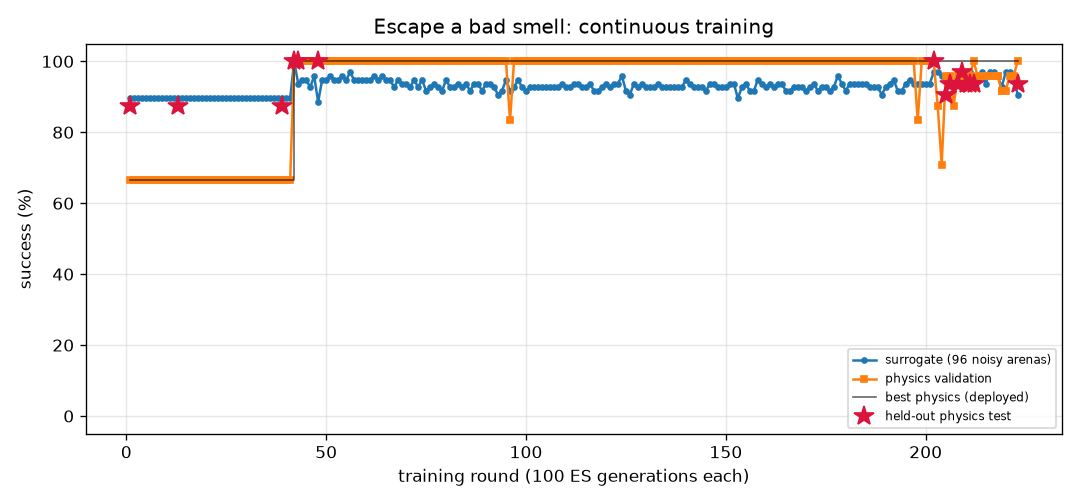
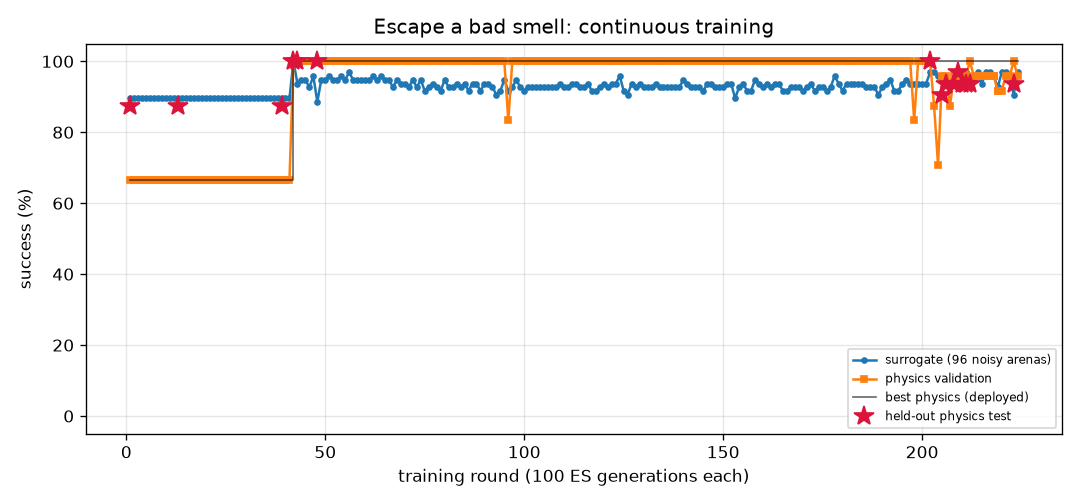
FlyLab: continuous training progress
- walk_forward: optimal, physics val 100% of 24, round 34
- turn: optimal, physics val 100% of 24, round 43
- goto: optimal, physics val 100% of 24, round 36
- odor_seek: optimal, physics val 100% of 24, round 65
- odor_avoid: optimal, physics val 96% of 24, round 224
- light_seek: optimal, physics val 100% of 24, round 205
- light_avoid: optimal, physics val 100% of 24, round 48

diff --git a/projects/09_flylab/training/turn/REPORT.md b/projects/09_flylab/training/turn/REPORT.md
@@ -1,27 +1,22 @@
 # Turn in place (`turn`) — training report
 
-*Auto-generated by `train_brains.py`, last updated 2026-10-03T12:27:35.*
+*Auto-generated by `train_brains.py`, last updated 2026-10-03T13:26:57.*
 
 ![curve](curve.png)
 
 | | |
 |---|---|
-| rounds | 31 |
-| ES generations | 3100 |
-| physics runs | 926 |
+| rounds | 43 |
+| ES generations | 4300 |
+| physics runs | 1246 |
 | status | **optimal** |
-| best brain | round 21: physics validation **100%** on 24 arenas, surrogate 98% |
-| held-out physics test | **91%** on 32 unseen arenas (95% CI 76%-97%) (errors: [2.4, 2.5, 5.3, 4.0, 0.6, 2.1, 0.1, 0.3, 2.0, 2.5, 1.3, 1.7, 1.1, 1.8, 5.4, 1.6, 1.6, 1.0, 1.0, 8.7, 0.7, 1.4, 2.4, 10.2, 2.8, 4.1, 2.2, 4.6, 11.0, 0.6, 8.4, 9.8]) |
+| best brain | round 37: physics validation **100%** on 24 arenas, surrogate 100% |
+| held-out physics test | **100%** on 32 unseen arenas (95% CI 89%-100%) (errors: [0.7, 2.9, 4.2, 1.6, 2.0, 1.9, 0.4, 0.6, 2.5, 2.5, 1.2, 5.1, 0.0, 1.3, 0.9, 2.0, 1.8, 3.9, 0.0, 2.1, 0.4, 1.6, 2.5, 0.7, 2.4, 4.8, 1.8, 6.0, 4.3, 1.3, 7.4, 7.2]) |
 
 Physics error per arena: deg from target heading (< 20 = success).
 
 | round | level | gens | sigma | surrogate | physics val | val errors | test | note |
 |---:|---:|---:|---:|---:|---:|---|---:|---|
-| 1 | 1 | 100 | 0.053 | 98% | 83% | [9.0, 10.3, 9.9, 3.6, 4.8, 1.4] | 75% | new best |
-| 2 | 1 | 200 | 0.025 | 98% | 83% | [5.4, 2.2, 0.0, 1.1, 11.1, 0.2] | 88% | new best |
-| 3 | 1 | 300 | 0.025 | 99% | 100% | [4.3, 7.2, 7.2, 2.0, 2.6, 1.9] | 88% | new best |
-| 4 | 3 | 400 | 0.025 | 100% | 96% | [1.8, 5.8, 1.2, 2.2, 13.3, 4.1, 4.5, 5.7, 4.6, 10.7, 3.3, 0.5, 2.3, 3.1, 2.8, 0.3, 0.9, 0.6, 0.0, 0.3, 2.1, 0.0, 6.2, 1.3] | 91% | new best |
-| 5 | 3 | 500 | 0.024 | 100% | 92% | [5.8, 0.4, 0.3, 1.2, 0.4, 0.8, 8.7, 9.1, 8.4, 2.6, 6.0, 3.5, 1.2, 0.6, 5.4, 2.1, 3.2, 2.5, 2.8, 3.0, 0.2, 2.6, 9.3, 4.2] |  |  |
 | 6 | 3 | 600 | 0.024 | 100% | 92% | [3.7, 12.1, 14.9, 3.2, 0.9, 118.1, 9.6, 0.4, 8.8, 5.4, 5.7, 7.7, 4.1, 3.6, 5.4, 6.0, 7.4, 15.3, 5.8, 6.4, 0.8, 6.7, 9.3, 8.7] |  |  |
 | 7 | 3 | 700 | 0.024 | 100% | 100% | [0.6, 3.2, 4.1, 1.4, 4.5, 3.1, 3.3, 2.1, 5.3, 0.4, 3.7, 0.0, 2.4, 3.2, 4.0, 10.7, 0.2, 1.0, 0.8, 0.7, 3.1, 0.7, 5.9, 4.4] | 84% |  |
 | 8 | 3 | 800 | 0.024 | 98% | 88% | [2.1, 7.3, 3.5, 2.4, 17.0, 5.9, 8.9, 10.9, 6.9, 3.4, 5.8, 3.6, 0.7, 2.9, 6.2, 3.3, 0.8, 4.3, 3.4, 3.6, 1.6, 3.7, 6.2, 9.8] |  |  |
@@ -50,3 +45,15 @@ Physics error per arena: deg from target heading (< 20 = success).
 | 29 | 3 | 2900 | 0.024 | 98% | 83% | [8.6, 3.9, 9.7, 0.0, 0.1, 3.4, 4.7, 7.4, 4.9, 0.4, 5.0, 1.8, 0.2, 3.0, 5.2, 1.2, 0.5, 1.2, 0.3, 0.4, 4.4, 1.6, 4.6, 2.4] |  | restart from best |
 | 30 | 3 | 3000 | 0.025 | 99% | 96% | [8.4, 15.6, 8.0, 3.6, 16.3, 18.6, 9.7, 9.7, 10.4, 3.9, 6.8, 9.3, 5.9, 5.5, 7.1, 16.4, 9.5, 15.4, 15.1, 17.1, 0.7, 7.2, 9.7, 8.8] |  |  |
 | 31 | 3 | 3100 | 0.025 | 99% | 96% | [4.7, 1.8, 3.7, 1.1, 0.7, 4.9, 4.9, 0.3, 4.2, 3.0, 4.5, 2.3, 1.4, 2.2, 4.7, 1.3, 2.5, 0.9, 3.1, 1.1, 2.8, 2.0, 6.5, 3.7] |  |  |
+| 32 | 3 | 3200 | 0.025 | 99% | 83% | [5.2, 5.6, 2.5, 2.7, 5.1, 1.0, 4.1, 0.8, 4.7, 0.5, 0.3, 0.2, 1.8, 3.0, 4.2, 0.1, 0.0, 0.3, 0.7, 0.3, 111.1, 1.1, 4.0, 4.6] |  |  |
+| 33 | 3 | 3300 | 0.025 | 99% | 88% | [9.3, 4.4, 1.5, 1.6, 1.8, 2.6, 7.5, 6.1, 8.3, 15.4, 5.3, 0.8, 0.7, 1.1, 4.9, 2.6, 1.0, 2.9, 2.7, 2.5, 3.3, 2.6, 9.0, 6.4] |  | restart from best |
+| 34 | 3 | 3400 | 0.025 | 99% | 92% | [4.6, 3.6, 6.2, 2.4, 12.3, 0.6, 4.1, 8.3, 5.7, 12.8, 3.8, 1.4, 1.2, 1.6, 4.3, 1.7, 1.7, 2.9, 1.4, 1.1, 4.8, 2.5, 4.5, 6.8] |  |  |
+| 35 | 3 | 3500 | 0.025 | 99% | 92% | [10.1, 16.1, 5.0, 2.2, 0.3, 2.2, 10.8, 11.1, 11.0, 3.7, 6.4, 7.5, 3.0, 3.9, 6.1, 4.2, 7.8, 14.9, 4.5, 5.7, 3.5, 4.6, 9.3, 7.6] |  |  |
+| 36 | 3 | 3600 | 0.025 | 99% | 75% | [2.5, 6.7, 10.0, 2.9, 2.2, 3.2, 9.5, 11.6, 11.9, 3.4, 8.1, 6.4, 2.1, 2.7, 6.5, 5.0, 6.0, 6.8, 4.7, 4.9, 5.0, 1.7, 10.4, 7.5] |  |  |
+| 37 | 3 | 3700 | 0.025 | 100% | 100% | [2.3, 4.4, 1.9, 2.5, 3.0, 2.7, 4.3, 2.8, 5.0, 0.5, 4.5, 1.5, 2.3, 2.6, 4.1, 0.1, 1.2, 0.3, 0.1, 1.8, 2.1, 2.1, 5.1, 0.7] | 100% | new best |
+| 38 | 3 | 3800 | 0.024 | 99% | 92% | [2.7, 0.1, 1.8, 1.6, 11.8, 116.6, 6.5, 7.4, 6.5, 11.4, 0.5, 3.5, 0.0, 0.9, 4.4, 2.2, 3.4, 2.0, 2.3, 2.2, 4.6, 1.9, 5.9, 3.3] |  |  |
+| 39 | 3 | 3900 | 0.025 | 99% | 75% | [7.6, 6.9, 6.6, 1.5, 3.3, 4.4, 4.6, 5.2, 2.4, 1.2, 4.7, 0.0, 2.3, 2.1, 4.7, 0.0, 0.4, 1.7, 0.0, 0.1, 5.8, 2.4, 3.7, 3.0] |  |  |
+| 40 | 3 | 4000 | 0.025 | 99% | 92% | [6.2, 0.2, 7.0, 0.6, 11.5, 1.9, 5.9, 6.8, 5.9, 1.4, 4.2, 1.1, 1.3, 1.0, 4.1, 1.5, 2.1, 2.2, 1.5, 1.2, 2.3, 2.7, 6.6, 7.7] |  |  |
+| 41 | 3 | 4100 | 0.025 | 99% | 79% | [0.4, 4.8, 0.8, 1.6, 10.3, 116.6, 5.5, 1.3, 4.9, 2.4, 4.4, 0.5, 1.6, 0.8, 4.0, 10.2, 0.4, 0.9, 11.5, 0.1, 5.5, 2.5, 5.7, 4.8] |  | restart from best |
+| 42 | 3 | 4200 | 0.024 | 99% | 92% | [1.9, 0.3, 2.3, 2.0, 3.0, 4.4, 6.6, 4.3, 5.4, 11.7, 4.6, 1.7, 0.6, 1.5, 5.3, 2.0, 2.3, 1.7, 1.5, 1.3, 1.7, 1.8, 8.0, 2.0] |  |  |
+| 43 | 3 | 4300 | 0.025 | 99% | 75% | [5.1, 2.7, 1.8, 1.5, 4.1, 0.5, 3.5, 2.9, 4.1, 0.8, 0.1, 0.9, 1.8, 2.2, 4.9, 0.5, 0.6, 1.0, 0.2, 0.4, 104.5, 1.1, 7.0, 0.6] |  |  |

diff --git a/projects/09_flylab/training/light_avoid/REPORT.md b/projects/09_flylab/training/light_avoid/REPORT.md
@@ -1,30 +1,22 @@
 # Hide from light (`light_avoid`) — training report
 
-*Auto-generated by `train_brains.py`, last updated 2026-10-01T23:32:21.*
+*Auto-generated by `train_brains.py`, last updated 2026-10-03T13:29:04.*
 
 ![curve](curve.png)
 
 | | |
 |---|---|
-| rounds | 40 |
-| ES generations | 4000 |
-| physics runs | 1168 |
+| rounds | 48 |
+| ES generations | 4800 |
+| physics runs | 1392 |
 | status | **optimal** |
-| best brain | round 24: physics validation **100%** on 24 arenas, surrogate 100% |
-| held-out physics test | **100%** on 32 unseen arenas (95% CI 89%-100%) (errors: [14.4, 35.3, 32.8, 34.6, 34.6, 14.0, 14.5, 35.2, 35.2, 13.3, 14.0, 35.3, 34.8, 13.1, 30.9, 34.5, 31.3, 30.8, 32.2, 33.8, 35.8, 12.8, 34.1, 31.1, 14.1, 13.8, 34.6, 33.3, 35.4, 13.1, 35.5, 32.7]) |
+| best brain | round 45: physics validation **100%** on 24 arenas, surrogate 100% |
+| held-out physics test | **100%** on 32 unseen arenas (95% CI 89%-100%) (errors: [14.4, 28.9, 31.6, 32.2, 31.9, 13.9, 14.5, 34.1, 33.7, 13.3, 14.0, 31.3, 31.1, 13.1, 32.4, 33.8, 32.9, 32.2, 31.7, 32.0, 29.0, 12.3, 31.9, 33.2, 14.2, 13.7, 33.6, 32.5, 33.2, 13.2, 28.1, 33.7]) |
 
 Physics error per arena: mm gained away from source (> 6 without first approaching it = success).
 
 | round | level | gens | sigma | surrogate | physics val | val errors | test | note |
 |---:|---:|---:|---:|---:|---:|---|---:|---|
-| 1 | 1 | 100 | 0.025 | 100% | 67% | [-6.7, 63.6, 63.4, 24.0, 62.8, -7.0] | 75% | new best |
-| 2 | 1 | 200 | 0.024 | 100% | 83% | [-6.5, 63.7, 63.5, 31.7, 63.0, 15.4] | 62% | new best |
-| 3 | 1 | 300 | 0.024 | 100% | 100% | [15.6, 63.8, 63.5, 10.1, 63.1, 29.7] | 100% | new best |
-| 4 | 2 | 400 | 0.024 | 100% | 67% | [-6.7, 63.8, 63.5, -4.7, 63.1, -7.1, 62.3, 43.0, 41.3, -5.3, 32.8, 62.9] |  |  |
-| 5 | 2 | 500 | 0.024 | 100% | 92% | [-6.4, 63.8, 63.5, 23.7, 63.1, 13.6, 62.3, 20.0, 36.4, 40.8, 31.3, 62.9] | 75% | new best |
-| 6 | 2 | 600 | 0.024 | 99% | 83% | [-6.5, 63.8, 63.5, 35.9, 63.0, 27.6, 62.3, -3.0, 25.4, 42.2, 34.4, 62.9] |  |  |
-| 7 | 2 | 700 | 0.025 | 100% | 58% | [26.3, 63.8, 63.5, -5.3, 63.1, -7.2, 62.3, -1.3, -6.3, 41.4, -7.3, 62.9] |  |  |
-| 8 | 2 | 800 | 0.024 | 100% | 50% | [-6.6, 63.8, 63.5, -5.4, 63.1, -7.1, 62.3, -2.8, 33.9, -5.4, -7.1, 62.9] |  |  |
 | 9 | 2 | 900 | 0.024 | 100% | 58% | [35.1, 63.8, 63.6, -5.4, 63.1, -7.0, 62.4, 42.2, -6.4, -5.4, -7.1, 62.9] |  | restart from best |
 | 10 | 2 | 1000 | 0.024 | 100% | 100% | [37.5, 63.8, 63.5, 28.3, 63.0, 34.2, 62.4, 48.8, 40.1, 40.0, 33.2, 62.9] | 88% | new best |
 | 11 | 1 | 1100 | 0.064 | 50% | 50% | [34.3, 63.8, 63.5, -5.0, 63.2, -6.8] |  |  |
@@ -57,3 +49,11 @@ Physics error per arena: mm gained away from source (> 6 without first approachi
 | 38 | 3 | 3800 | 0.024 | 100% | 100% | [43.1, 44.0, 43.6, 42.8, 44.2, 41.4, 42.2, 14.5, 37.0, 13.4, 44.5, 44.1, 14.4, 43.8, 43.8, 40.9, 14.2, 44.5, 44.3, 14.4, 43.3, 44.5, 42.1, 43.6] |  |  |
 | 39 | 3 | 3900 | 0.024 | 100% | 100% | [48.4, 50.6, 50.4, 48.9, 48.5, 48.7, 49.7, 14.5, 46.7, 36.9, 49.9, 48.2, 14.4, 50.0, 50.6, 48.1, 14.2, 49.2, 50.7, 14.4, 47.6, 50.1, 49.5, 47.6] |  |  |
 | 40 | 3 | 4000 | 0.024 | 100% | 100% | [39.9, 37.9, 37.4, 40.3, 40.6, 40.5, 35.8, 14.5, 38.6, 13.3, 39.9, 40.7, 14.3, 39.7, 37.6, 40.6, 14.2, 40.6, 38.0, 14.4, 38.2, 39.2, 35.9, 40.8] |  | restart from best |
+| 41 | 3 | 4100 | 0.024 | 100% | 100% | [50.0, 52.2, 52.1, 50.6, 50.4, 50.2, 51.3, 14.5, 47.6, 13.2, 50.7, 50.1, 14.4, 52.0, 52.2, 50.2, 14.2, 51.4, 52.5, 14.4, 50.3, 50.5, 51.1, 49.4] |  |  |
+| 42 | 3 | 4200 | 0.024 | 100% | 100% | [47.7, 48.8, 48.5, 47.8, 47.8, 47.4, 47.2, 14.5, 25.7, 13.4, 44.8, 47.6, 14.4, 48.1, 48.6, 47.6, 14.2, 48.3, 49.0, 14.4, 47.4, 45.3, 47.0, 47.0] |  |  |
+| 43 | 3 | 4300 | 0.024 | 100% | 100% | [52.6, 55.0, 54.9, 52.5, 53.3, 52.3, 54.3, 14.5, 48.7, 13.1, 53.0, 53.0, 14.4, 54.1, 55.1, 52.8, 14.2, 53.9, 55.2, 14.4, 50.6, 53.4, 53.9, 51.8] |  |  |
+| 44 | 3 | 4400 | 0.024 | 100% | 100% | [50.3, 52.3, 52.1, 50.6, 50.4, 51.1, 51.3, 14.5, 46.4, 13.3, 49.9, 50.0, 14.3, 51.7, 52.1, 48.8, 14.2, 51.5, 52.3, 14.4, 49.1, 49.7, 51.0, 49.4] |  | restart from best |
+| 45 | 3 | 4500 | 0.024 | 100% | 100% | [31.9, 29.8, 28.6, 31.9, 32.9, 31.5, 27.6, 14.5, 32.0, 26.4, 33.5, 32.7, 14.4, 33.9, 28.6, 33.3, 14.2, 32.0, 30.2, 14.4, 33.7, 33.6, 27.5, 32.7] | 100% | new best |
+| 46 | 3 | 4600 | 0.024 | 100% | 100% | [40.3, 41.3, 40.9, 43.0, 44.4, 40.4, 38.5, 14.5, 43.5, 13.1, 44.4, 45.1, 14.4, 45.1, 41.0, 41.6, 14.2, 44.8, 41.4, 14.4, 40.1, 45.3, 39.0, 44.9] |  |  |
+| 47 | 3 | 4700 | 0.024 | 100% | 100% | [35.3, 34.3, 33.4, 35.3, 36.3, 35.0, 31.8, 14.5, 25.5, 13.2, 37.5, 35.9, 14.4, 36.3, 32.9, 37.8, 14.2, 36.9, 34.2, 14.4, 34.8, 37.4, 31.3, 36.5] |  |  |
+| 48 | 3 | 4800 | 0.024 | 100% | 100% | [53.9, 56.0, 55.8, 54.0, 54.5, 54.2, 55.0, 14.5, 51.8, 13.3, 53.9, 54.3, 14.3, 55.3, 56.0, 53.8, 14.2, 55.1, 56.3, 14.4, 51.8, 53.9, 54.6, 53.6] |  |  |

diff --git a/projects/09_flylab/training/odor_avoid/REPORT.md b/projects/09_flylab/training/odor_avoid/REPORT.md
@@ -1,14 +1,14 @@
 # Escape a bad smell (`odor_avoid`) — training report
 
-*Auto-generated by `train_brains.py`, last updated 2026-10-03T12:29:49.*
+*Auto-generated by `train_brains.py`, last updated 2026-10-03T12:35:43.*
 
 ![curve](curve.png)
 
 | | |
 |---|---|
-| rounds | 223 |
-| ES generations | 22300 |
-| physics runs | 2210 |
+| rounds | 224 |
+| ES generations | 22400 |
+| physics runs | 2234 |
 | status | **optimal** |
 | best brain | round 211: physics validation **96%** on 24 arenas, surrogate 97% |
 | held-out physics test | **94%** on 32 unseen arenas (95% CI 80%-98%) (errors: [27.6, 27.2, 27.5, 27.9, 27.8, 28.5, 27.2, 28.3, 28.0, 27.3, 27.2, 27.0, 27.8, 27.8, 28.4, 28.1, 27.9, 26.4, 28.8, 27.1, 27.8, 27.0, 27.8, 28.6, 27.7, 27.5, 25.9, 25.7, 27.3, 28.0, 27.7, 23.6]) |
@@ -17,7 +17,6 @@ Physics error per arena: mm gained away from source (> 6 without first approachi
 
 | round | level | gens | sigma | surrogate | physics val | val errors | test | note |
 |---:|---:|---:|---:|---:|---:|---|---:|---|
-| 186 | 1 | 18600 | 0.028 | 93% | 100% | [37.3, 36.4, 35.8, 36.5, 36.0, 35.4] |  |  |
 | 187 | 1 | 18700 | 0.028 | 93% | 100% | [31.1, 30.9, 31.1, 31.2, 30.6, 29.2] |  |  |
 | 188 | 1 | 18800 | 0.028 | 93% | 100% | [46.0, 44.7, 44.3, 44.9, 45.5, 45.5] |  | restart from best |
 | 189 | 1 | 18900 | 0.032 | 91% | 100% | [27.6, 27.6, 26.7, 27.6, 25.7, 25.5] |  |  |
@@ -57,3 +56,4 @@ Physics error per arena: mm gained away from source (> 6 without first approachi
 | 221 | 3 | 22100 | 0.026 | 97% | 96% | [27.8, 27.7, 26.9, 27.8, 26.6, 25.9, 28.3, 27.5, 27.4, 26.6, 27.3, 28.0, 24.9, 26.4, 23.2, 25.8, 27.7, 26.0, 26.4, 27.8, 28.0, 26.2, 27.4, 26.9] |  |  |
 | 222 | 3 | 22200 | 0.026 | 96% | 96% | [25.7, 25.7, 25.0, 25.7, 24.4, 24.0, 26.3, 24.7, 25.4, 24.5, 25.8, 26.1, 24.5, 24.5, 22.2, 24.2, 25.9, 24.3, 24.7, 25.8, 26.2, 24.0, 25.3, 24.1] |  |  |
 | 223 | 3 | 22300 | 0.026 | 91% | 100% | [30.9, 31.1, 30.0, 31.2, 29.4, 29.0, 31.6, 29.8, 30.5, 29.7, 30.9, 31.4, 29.9, 29.9, 27.6, 29.1, 31.1, 29.3, 30.0, 30.8, 31.4, 29.2, 30.8, 28.9] | 94% |  |
+| 224 | 3 | 22400 | 0.026 | 97% | 96% | [38.4, 37.9, 37.4, 37.9, 37.5, 37.1, 38.3, 37.4, 37.6, 37.3, 38.0, 38.7, 35.4, 37.2, 33.1, 37.3, 38.4, 37.3, 35.7, 37.5, 38.7, 37.2, 37.8, 37.4] |  |  |

diff --git a/projects/09_flylab/training/TRAINING.md b/projects/09_flylab/training/TRAINING.md
@@ -1,15 +1,15 @@
 # FlyLab brains — continuous training log
 
-*Auto-generated by `train_brains.py`, last updated 2026-10-03T12:29:49.*
+*Auto-generated by `train_brains.py`, last updated 2026-10-03T13:29:04.*
 
 Every skill has its own brain and its own training process: surrogate ES rounds, physics validation in MuJoCo, keep-the-best selection, and a held-out physics test that is never used for selection. See each skill's report for its full round-by-round history. Mastery is progressive: passing a level (100% physics validation, >=95% surrogate) doubles the validation and test arena sets; a brain is **optimal** once it holds up at level 3 (>=95% of 24 validation arenas) AND scores >=90% on the 32 held-out test arenas. Test columns show 95% Wilson confidence intervals.
 
 | skill | rounds | ES generations | physics runs | surrogate | physics val | **physics test** | status |
 |---|---:|---:|---:|---:|---:|---:|---|
 | [Walk forward](walk_forward/REPORT.md) | 34 | 3400 | 606 | 99% | 100% of 24 | 100% of 32 (CI 89-100%) | **optimal** |
-| [Turn in place](turn/REPORT.md) | 31 | 3100 | 926 | 98% | 100% of 24 | 91% of 32 (CI 76-97%) | **optimal** |
+| [Turn in place](turn/REPORT.md) | 43 | 4300 | 1246 | 100% | 100% of 24 | 100% of 32 (CI 89-100%) | **optimal** |
 | [Go to a location](goto/REPORT.md) | 36 | 3600 | 558 | 100% | 100% of 24 | 100% of 32 (CI 89-100%) | **optimal** |
 | [Find food by smell](odor_seek/REPORT.md) | 65 | 6500 | 702 | 100% | 100% of 24 | 100% of 32 (CI 89-100%) | **optimal** |
-| [Escape a bad smell](odor_avoid/REPORT.md) | 223 | 22300 | 2210 | 97% | 96% of 24 | 94% of 32 (CI 80-98%) | **optimal** |
+| [Escape a bad smell](odor_avoid/REPORT.md) | 224 | 22400 | 2234 | 97% | 96% of 24 | 94% of 32 (CI 80-98%) | **optimal** |
 | [Walk toward light](light_seek/REPORT.md) | 205 | 20500 | 1544 | 100% | 100% of 24 | 97% of 32 (CI 84-99%) | **optimal** |
-| [Hide from light](light_avoid/REPORT.md) | 40 | 4000 | 1168 | 100% | 100% of 24 | 100% of 32 (CI 89-100%) | **optimal** |
+| [Hide from light](light_avoid/REPORT.md) | 48 | 4800 | 1392 | 100% | 100% of 24 | 100% of 32 (CI 89-100%) | **optimal** |
